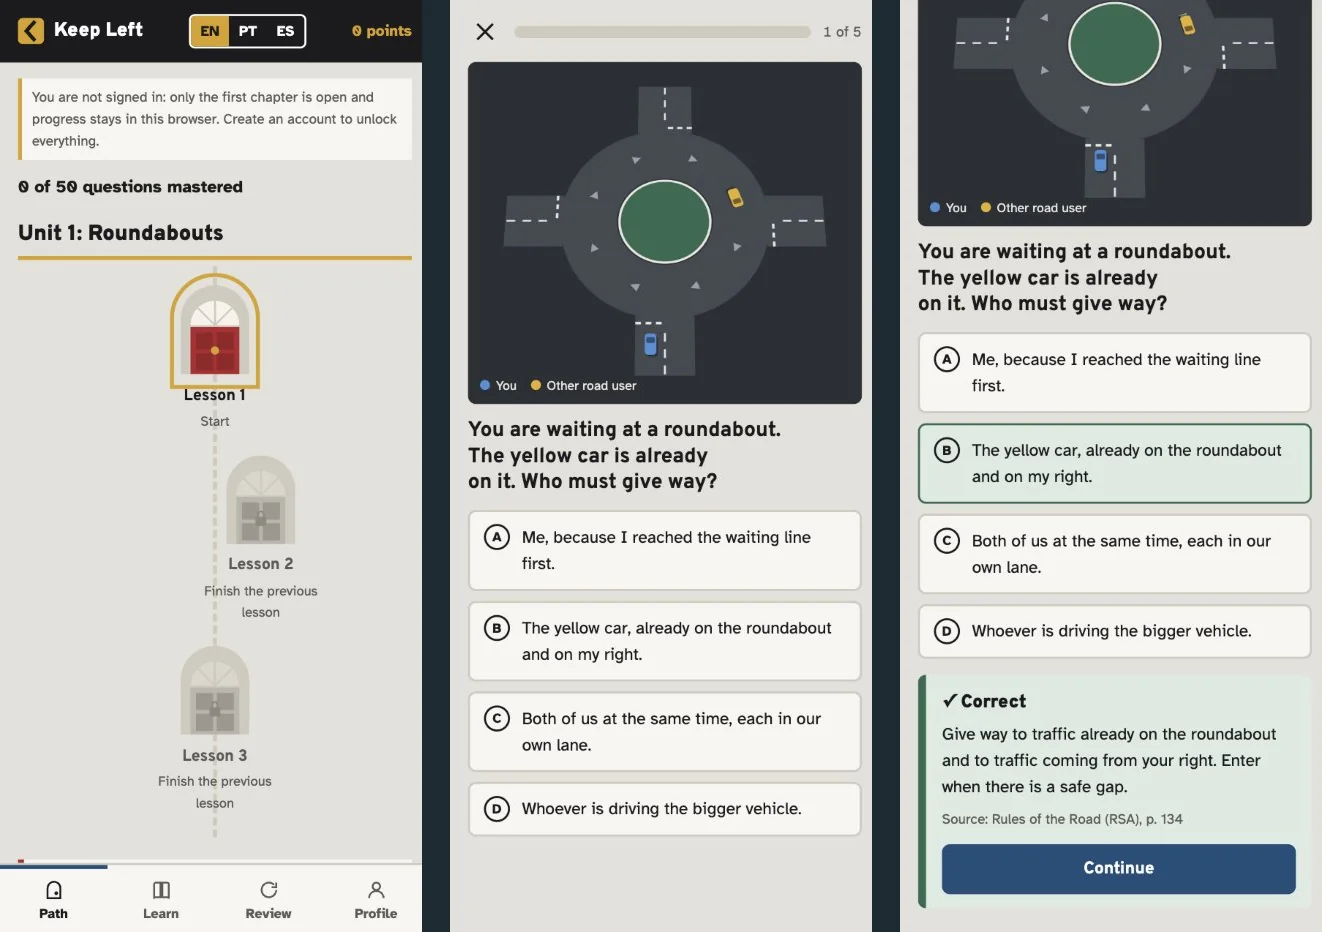
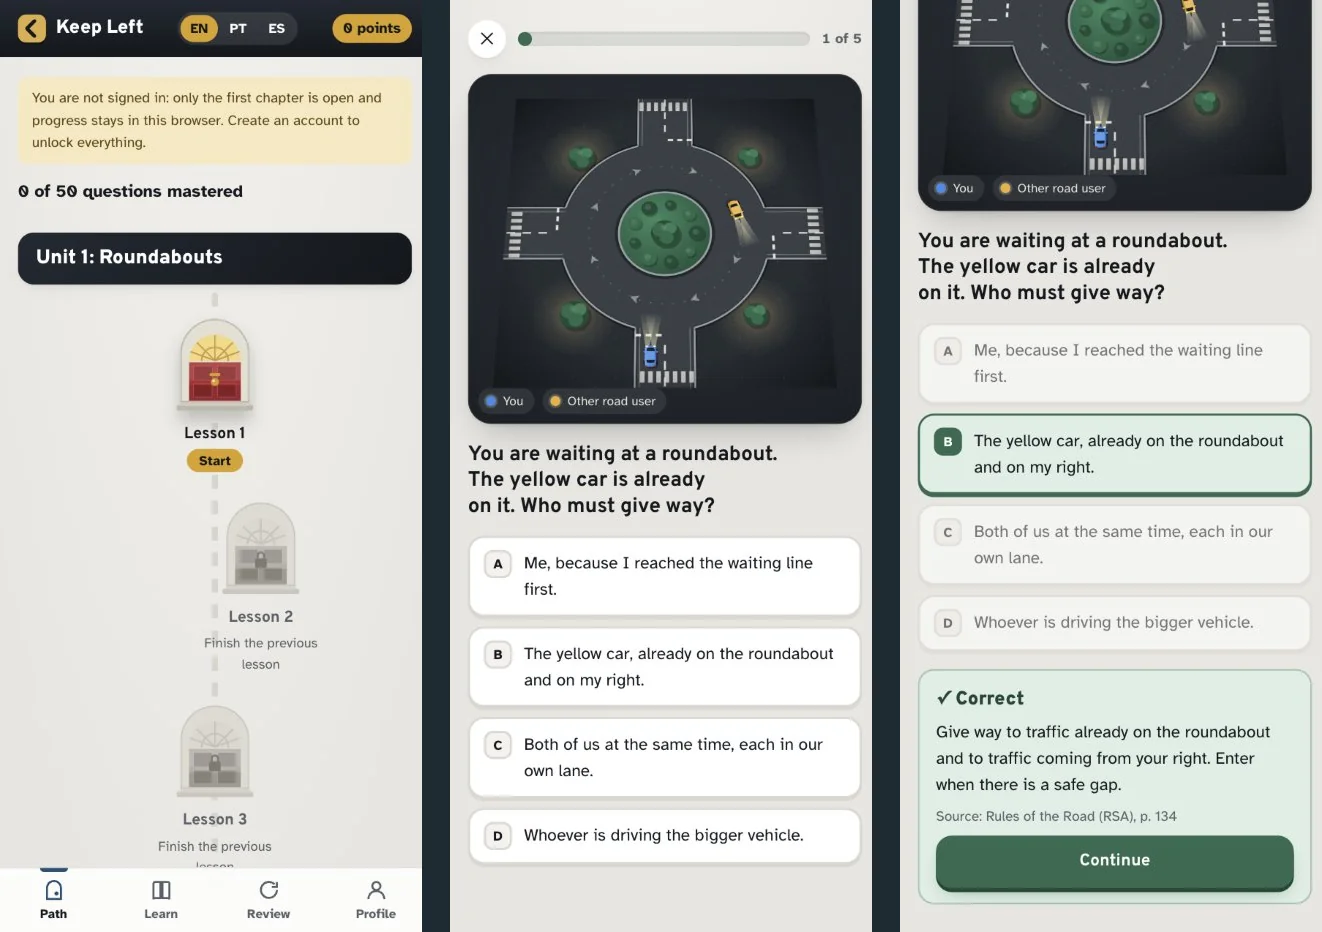
New Keep Left screenshots and a plainer description
Claude-Session: https://claude.ai/code/session_01MRUxR7yTGDvuKXwJ4qAW9z

diff --git a/lib/config.ts b/lib/config.ts
@@ -134,7 +134,7 @@ export const config = {
       status: "Live",
       kind: "Learning web app",
       description:
-        "Learn the Irish driving theory test (RSA) the way you learn a language: short lessons, 50 original questions in 7 units and animated top-down scenes for roundabouts and junctions. English by default, with Portuguese and Spanish in one tap, and optional study notes before each lesson.",
+        "Practise for the Irish driving theory test (RSA) in short lessons, like a language app. Roundabout and junction questions come with animated road scenes, and each lesson has optional study notes. Available in English, Portuguese and Spanish. 50 questions so far, with more coming soon.",
       stack: ["TypeScript", "Next.js", "PostgreSQL", "pnpm monorepo"],
       url: "https://github.com/AlexandroCunha/keep-left",
       privateRepo: true,
